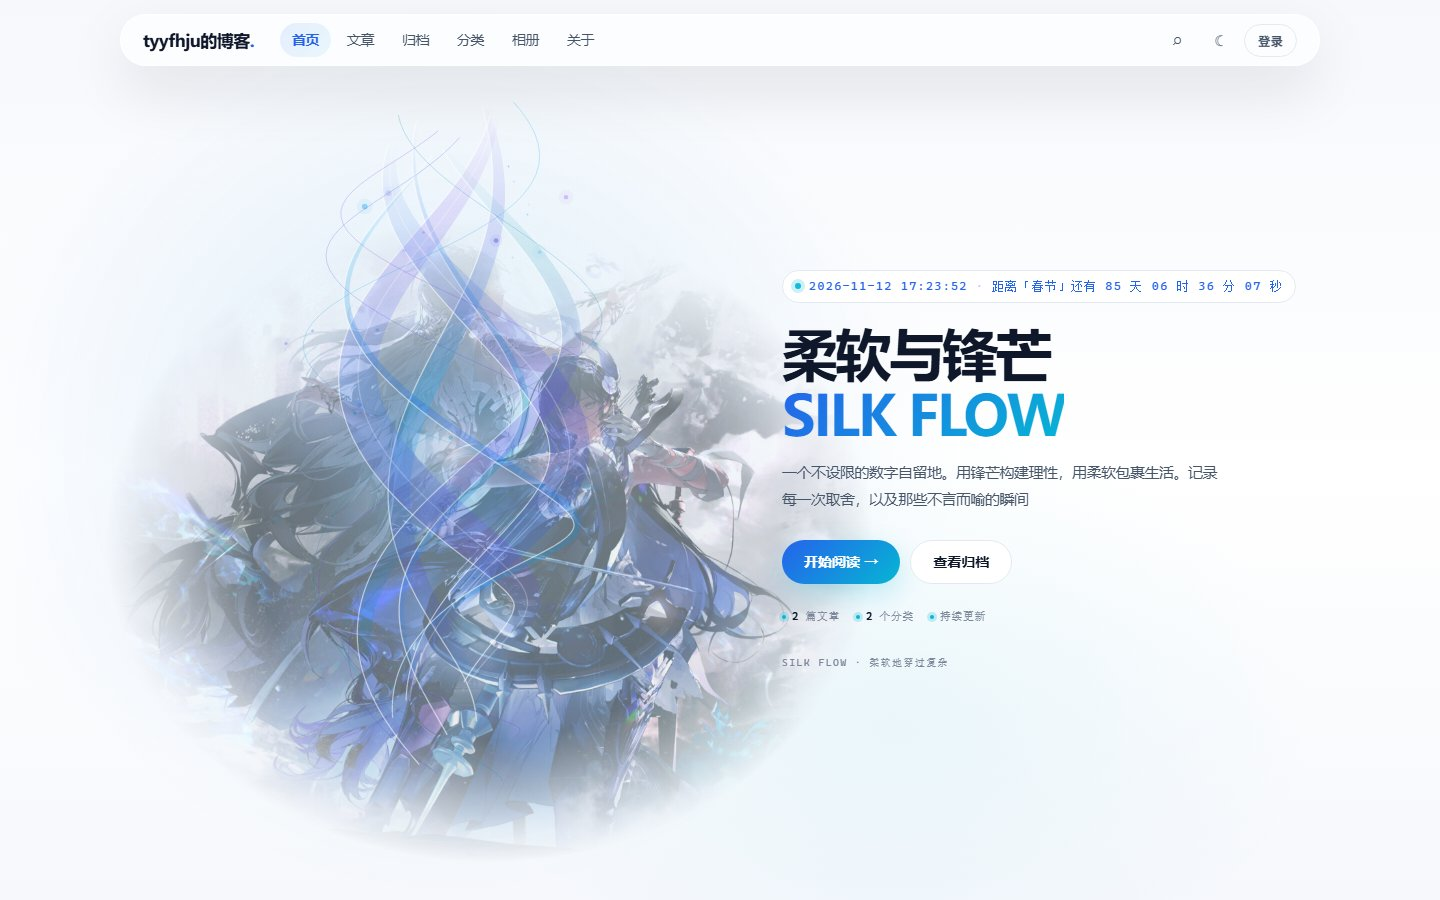
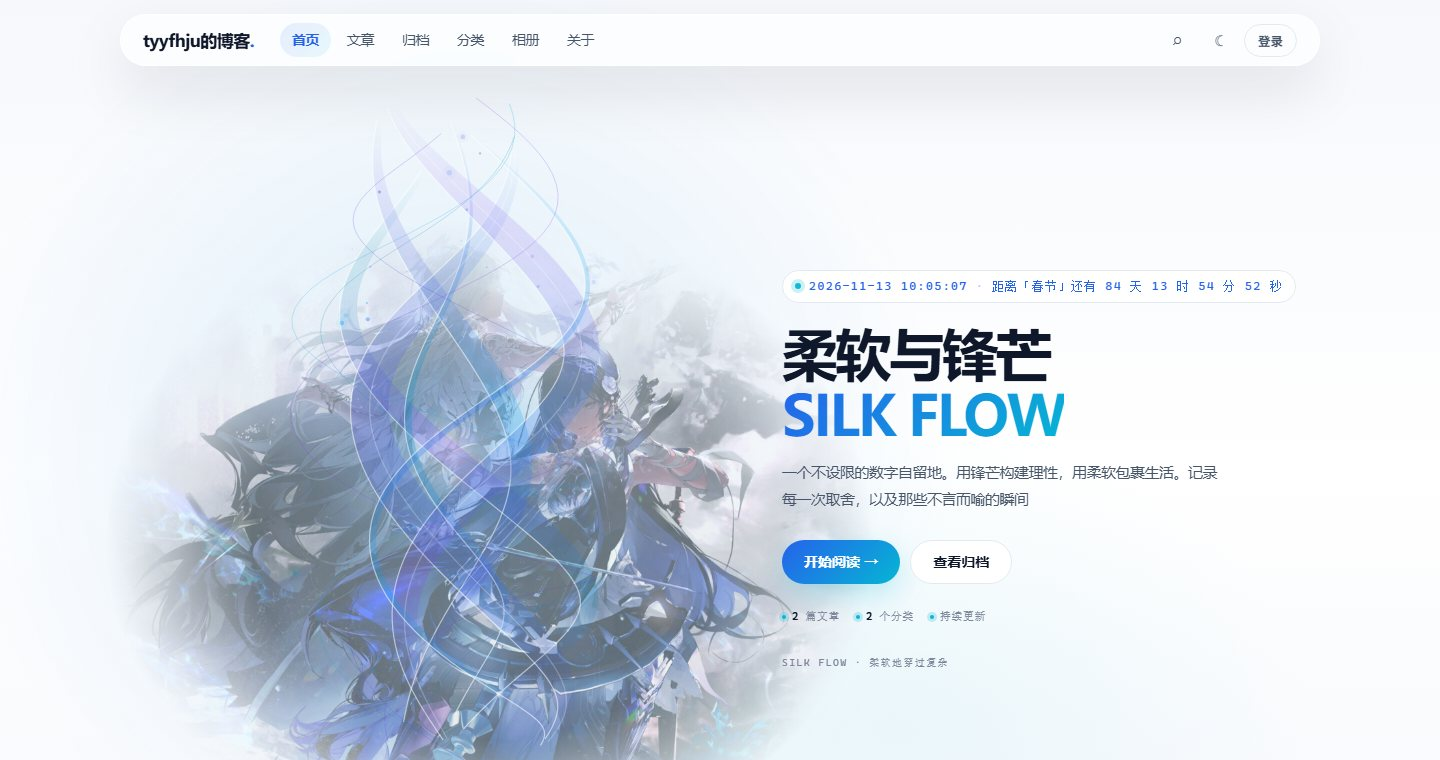
README 重做页面预览截图

diff --git a/README.md b/README.md
@@ -8,15 +8,40 @@
 
 ## 页面预览
 
-| 首页 | 文章页 |
-| --- | --- |
-| [![首页](docs/screenshots/home-desktop.jpg)](https://xn--hlry9isyc4tas57t.com/) | [![文章页](docs/screenshots/article-desktop.jpg)](https://xn--hlry9isyc4tas57t.com/article/17) |
+前台在另一个仓库，这里放几张线上实际效果，主要看接口和数据跑通的样子。
 
 <p align="center">
-  <img src="docs/screenshots/home-mobile.jpg" width="320" alt="手机端首页">
+  <a href="https://xn--hlry9isyc4tas57t.com/">
+    <img src="docs/screenshots/home-desktop.jpg" alt="首页" width="100%">
+  </a>
+  <br>
+  <sub>首页：流丝动画、深浅主题、首屏排版</sub>
 </p>
 
-截图就是线上站点的实际效果。
+| 文章列表 | 文章正文 |
+| --- | --- |
+| [![文章列表](docs/screenshots/articles-desktop.jpg)](https://xn--hlry9isyc4tas57t.com/articles) | [![文章正文](docs/screenshots/article-desktop.jpg)](https://xn--hlry9isyc4tas57t.com/article/17) |
+| 分类、搜索、缩略图、时间索引 | Markdown 正文、代码高亮和复制按钮 |
+
+<p align="center">
+  <img src="docs/screenshots/admin-dashboard.jpg" alt="后台仪表盘" width="100%">
+  <br>
+  <sub>后台：仪表盘、文章管理、分类标签、相册和站点设置</sub>
+</p>
+
+### 手机端
+
+<p align="center">
+  <a href="https://xn--hlry9isyc4tas57t.com/">
+    <img src="docs/screenshots/home-mobile.jpg" width="240" alt="手机端首页">
+  </a>
+  &nbsp;&nbsp;&nbsp;
+  <a href="https://xn--hlry9isyc4tas57t.com/articles">
+    <img src="docs/screenshots/articles-mobile.jpg" width="240" alt="手机端文章列表">
+  </a>
+</p>
+
+截图来自线上站点，桌面端宽度 1440px，手机端 390×844。
 
 ## 这个博客有什么
 
@@ -25,7 +50,6 @@
 - 评论和关于页留言都得登录才能发，作者显示登录邮箱
 - 注册、登录、邮箱验证码、找回密码
 - 一个账号只能一台设备登录，后登录的会把前一台挤下线
-- 邮件订阅，发新文章会通知订阅的人，邮件里能直接退订
 - 后台能管文章、分类、标签、用户、评论、留言、相册和站点设置
 - 文章和相册图片传到腾讯云 COS，不占服务器硬盘
 
